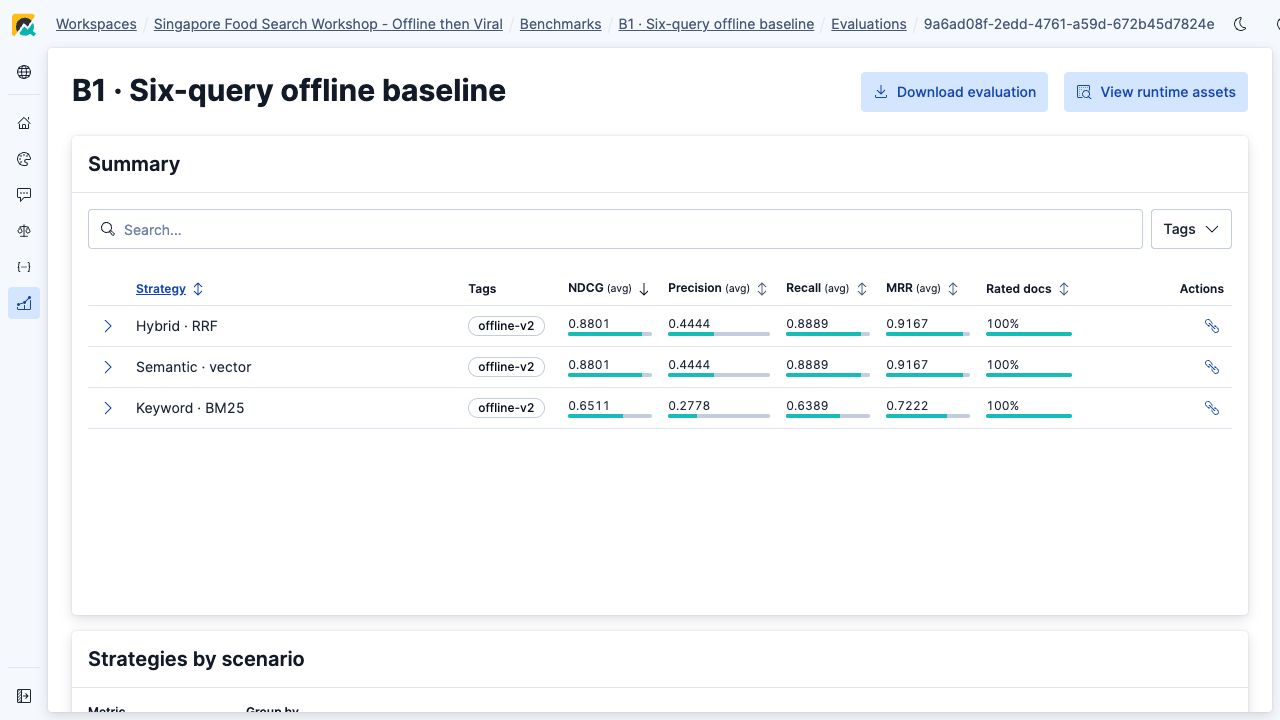
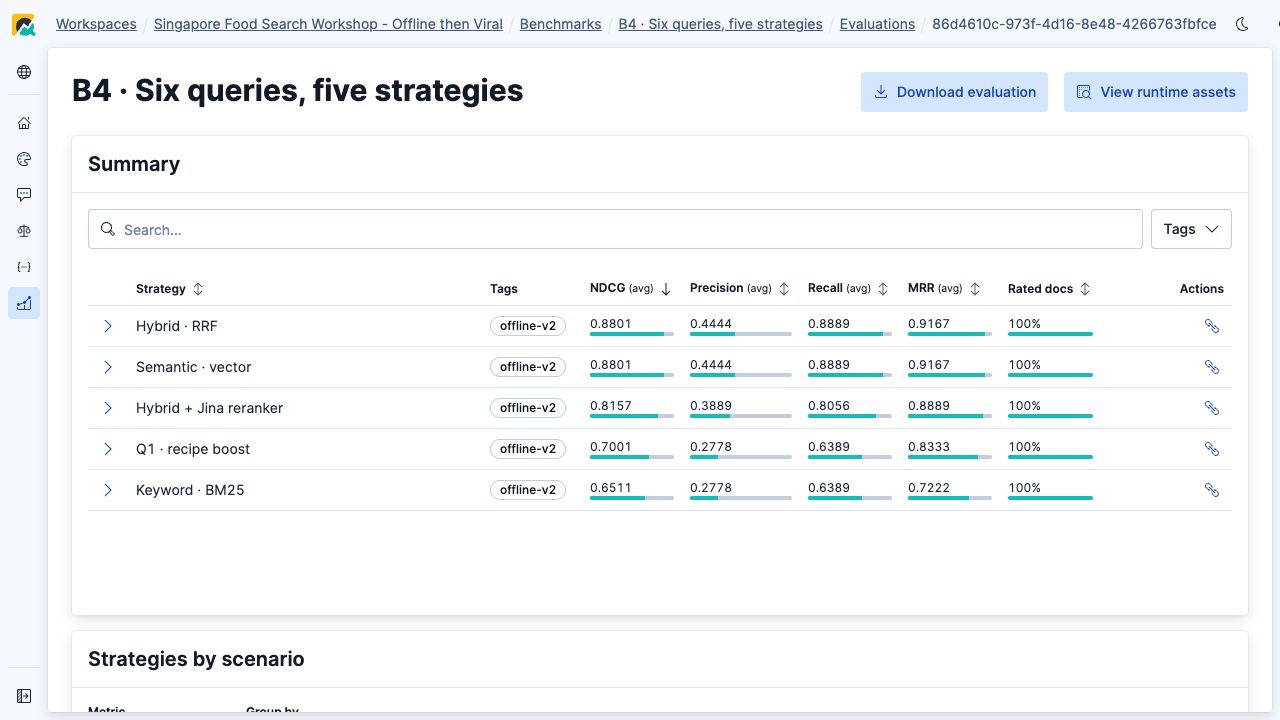
Compare five Studio strategies and show code through a dropdown

diff --git a/app.js b/app.js
@@ -21,7 +21,7 @@ let data, step=0, queryId='Q1', judgeQueryId='Q1', indexName='sg-food-vector-wor
 let abSnapshot=null;
 let viralActive=true;
 const abState={intro:{qid:'Q2',a:'keyword',b:'vector'},evaluate:{qid:'Q2',a:'keyword',b:'vector'},online:{qid:'Q2',a:'keyword',b:'hybrid'}};
-const studioState={qid:'Q1'};
+const studioState={qid:'Q1',strategy:'keyword'};
 const abModes={keyword:'Keyword · BM25',vector:'Semantic · vector',hybrid:'Hybrid · RRF'};
 
 function saveState(){try{localStorage.setItem(STORE,JSON.stringify({step,queryId,indexName,sectionByStep,viralActive}))}catch{}}
@@ -325,10 +325,15 @@ function labelEditor(){
 }
 function studioVisualContent(){
   const flow=`<p class="studio-flow-intro">Before launch, judge the original six queries (Q1–Q6) and compare search strategies on that same set. New tasks discovered through online searches come later.</p><div class="flow studio-flow"><div><b>1 · Scenarios</b><small><strong>What will someone search for?</strong><br>Each test case holds a query and user task.</small></div><div><b>2 · Judgments</b><small><strong>Which documents answer it?</strong><br>Grade query–document pairs from 0 to 3. <b>LLM-as-a-judge</b> can draft grades; SMEs review them.</small></div><div><b>3 · Strategies</b><small><strong>How will we search?</strong><br>Save keyword, vector, hybrid and candidate queries.</small></div><div><b>4 · Benchmark</b><small><strong>Which strategy works better?</strong><br>Run them at the same K and inspect individual failures.</small></div></div>`;
-  return panel('Judge the six scenarios before launch',`${flow}<section class="studio-phase"><h3><span class="stage-number">1</span> Set up scenarios and judgments</h3><div class="studio-config"><span><b>Index pattern</b><code>${esc(indexName)}</code></span><span><b>Rating scale</b>0–3</span><span><b>Search parameter</b><code>text</code></span></div>${studioScenarioWorkbench()}<div class="improve-check"><b>LLM-as-a-judge · draft relevance judgments here</b><span>Give the LLM the query, user task, document text and 0–3 rubric. Ask for a grade and a short reason. Expert evaluators check a sample against human grades; SMEs resolve ambiguous or high-impact cases. Freeze the reviewed grades before comparing strategies. This is an optional judging workflow; this page displays fixed workshop judgments and does not call an LLM.</span></div><p><b>Who reviews this?</b> The SME approves the task and grading rubric; expert evaluators enter the query–document grades and flag disagreements. The SME adjudicates disputed or high-impact examples. The cards here show the reviewed workshop judgments. A zero on an unrated Studio card may only be its slider default, so confirm each grade was saved.</p></section><section class="studio-phase"><h3><span class="stage-number">2</span> Save strategies and benchmark</h3><p>Use <code>{{ text }}</code> as the scenario parameter. Run the same six scenarios with the same K for every strategy. Compare the actual results, then MRR and NDCG for order, Recall for missed answers and Precision for noise. Studio counts grade 1 as relevant in its binary metrics; this page uses grade 2 or higher, so its Precision and Recall can differ.</p><div class="studio-grid"><section class="studio-card"><h4>Keyword baseline</h4>${code('Keyword strategy',studioStrategy('keyword'),'Copy strategy body')}</section><section class="studio-card"><h4>Semantic vector</h4>${code('Vector strategy',studioStrategy('vector'),'Copy strategy body')}</section><section class="studio-card"><h4>Hybrid RRF</h4>${code('Hybrid strategy',studioStrategy('hybrid'),'Copy strategy body')}</section><section class="studio-card"><h4>Q1 recipe boost</h4>${code('Recipe-boost strategy',studioRecipeBoostStrategy(),'Copy strategy body')}</section><section class="studio-card"><h4>Hybrid + Jina reranker</h4>${code('Jina rerank strategy',studioRerankStrategy(),'Copy strategy body')}</section></div><p>Run the six-query baseline and compare the Q1 boost on those same questions. Add vegetarian chicken rice as a reviewed scenario to test Hybrid against Jina; then check the reranker for regressions on the original six. Review failures and unrated results.</p><p>Keep the six-query benchmark as your offline baseline. Add the Q1 recipe-boost candidate as another strategy and compare it on recipe tasks; it must not silently replace guide or menu searches. Later online traffic supplies new cases for the next version of this test set.</p></section>${studioBenchmarkEvidence()}`,'accent');
+  return panel('Judge the six scenarios before launch',`${flow}<section class="studio-phase"><h3><span class="stage-number">1</span> Set up scenarios and judgments</h3><div class="studio-config"><span><b>Index pattern</b><code>${esc(indexName)}</code></span><span><b>Rating scale</b>0–3</span><span><b>Search parameter</b><code>text</code></span></div>${studioScenarioWorkbench()}<div class="improve-check"><b>LLM-as-a-judge · draft relevance judgments here</b><span>Give the LLM the query, user task, document text and 0–3 rubric. Ask for a grade and a short reason. Expert evaluators check a sample against human grades; SMEs resolve ambiguous or high-impact cases. Freeze the reviewed grades before comparing strategies. This is an optional judging workflow; this page displays fixed workshop judgments and does not call an LLM.</span></div><p><b>Who reviews this?</b> The SME approves the task and grading rubric; expert evaluators enter the query–document grades and flag disagreements. The SME adjudicates disputed or high-impact examples. The cards here show the reviewed workshop judgments. A zero on an unrated Studio card may only be its slider default, so confirm each grade was saved.</p></section><section class="studio-phase"><h3><span class="stage-number">2</span> Save strategies and benchmark</h3><p>Use <code>{{ text }}</code> as the scenario parameter. Run the same six scenarios with the same K for every strategy. Compare the actual results, then MRR and NDCG for order, Recall for missed answers and Precision for noise. Studio counts grade 1 as relevant in its binary metrics; this page uses grade 2 or higher, so its Precision and Recall can differ.</p>${studioStrategyPicker()}<p>Run the six-query baseline and compare the Q1 boost on those same questions. Add vegetarian chicken rice as a reviewed scenario to test Hybrid against Jina; then check the reranker for regressions on the original six. Review failures and unrated results.</p><p>Keep the six-query benchmark as your offline baseline. Add the Q1 recipe-boost candidate as another strategy and compare it on recipe tasks; it must not silently replace guide or menu searches. Later online traffic supplies new cases for the next version of this test set.</p></section>${studioBenchmarkEvidence()}`,'accent');
+}
+function studioStrategyPicker(){
+  const choices=[['keyword','Keyword · BM25',()=>studioStrategy('keyword')],['vector','Semantic · vector',()=>studioStrategy('vector')],['hybrid','Hybrid · RRF',()=>studioStrategy('hybrid')],['boost','Q1 · recipe boost',studioRecipeBoostStrategy],['jina','Hybrid + Jina reranker',studioRerankStrategy]];
+  const selected=choices.find(([id])=>id===studioState.strategy)??choices[0];
+  return `<div class="ab-toolbar"><label>Search strategy<select id="studio-strategy">${choices.map(([id,title])=>`<option value="${id}" ${id===selected[0]?'selected':''}>${esc(title)}</option>`).join('')}</select></label><span>Five candidates · compare all on Q1–Q6</span></div><section class="studio-card">${code(selected[1],selected[2](),'Copy strategy body')}</section>`;
 }
 function studioBenchmarkEvidence(){
-  return `<section class="studio-phase"><h3><span class="stage-number">3</span> Choose a strategy from the benchmark</h3><div class="improve-check"><b>Selected: Hybrid RRF · joint-highest NDCG</b><span>In this completed six-query Studio run, <b>Hybrid and Semantic tie at 0.8801 NDCG@3</b>; Keyword scores 0.6511. We choose Hybrid for the workshop. This result does not prove it beats Semantic, or that every query ranks its best answer first.</span></div><figure class="studio-benchmark-evidence"><div class="studio-benchmark-image"><img src="./studio-benchmark.png" alt="Actual Studio six-query benchmark: Hybrid and Semantic both have NDCG 0.8801 and MRR 0.9167; Keyword has NDCG 0.6511 and MRR 0.7222." loading="lazy"><span class="studio-benchmark-highlight" aria-hidden="true"></span></div><figcaption>Actual Relevance Studio capture · B1: Six-query offline baseline · evaluation 9a6ad08f · captured 29 September 2026. Outline marks the Hybrid row.</figcaption></figure><p><b>Read the scope:</b> this benchmark covers Q1–Q6. It does not tell us how Hybrid will handle new tasks that users search for after launch.</p><p><b>Grade ≠ rank:</b> Studio’s judgments evaluate a strategy; they do not automatically boost documents. Inspect each query as well as the average.</p></section>`;
+  return `<section class="studio-phase"><h3><span class="stage-number">3</span> Choose a strategy from the benchmark</h3><div class="improve-check"><b>Selected: Hybrid RRF · joint-highest NDCG</b><span>In this completed five-strategy, six-query Studio run, <b>Hybrid and Semantic tie at 0.8801 NDCG@3</b>; Jina scores 0.8157, recipe boost 0.7001 and Keyword 0.6511. All returned documents are rated. We choose Hybrid for the workshop. This result does not prove it beats Semantic, or that every query ranks its best answer first.</span></div><figure class="studio-benchmark-evidence"><div class="studio-benchmark-image"><img src="./studio-benchmark.png?v=five-strategies" alt="Actual Studio five-strategy benchmark on six queries: NDCG is 0.8801 for Hybrid and Semantic, 0.8157 for Jina, 0.7001 for recipe boost and 0.6511 for Keyword. All rows show 100% rated documents." loading="lazy"><span class="studio-benchmark-highlight" aria-hidden="true"></span></div><figcaption>Actual Relevance Studio capture · B4: Six queries, five strategies · evaluation 86d4610c · captured 29 September 2026. Outline marks the Hybrid row.</figcaption></figure><p><b>Read the scope:</b> this benchmark covers Q1–Q6. It does not tell us how Hybrid will handle new tasks that users search for after launch.</p><p><b>Grade ≠ rank:</b> Studio’s judgments evaluate a strategy; they do not automatically boost documents. Inspect each query as well as the average.</p></section>`;
 }
 const studioTerms={Q1:['chicken rice','Hainanese','white chicken','poach'],Q2:['brinjal','eggplant','aubergine','sambal'],Q3:['mee goreng','noodles','stir-fry'],Q4:['RC-123','rice cooker','RC-999'],Q5:['satay sauce','peanut-free','peanut'],Q6:['Rasa Corner','lunch menu','current','archived']};
 function studioScenarioWorkbench(){
@@ -478,6 +483,7 @@ function wire(){
     button.onclick=jump;
     button.onkeydown=event=>{if(event.key==='Enter'||event.key===' '){event.preventDefault();jump();}};
   });
+  const strategyPicker=$('#studio-strategy');if(strategyPicker)strategyPicker.onchange=()=>{studioState.strategy=strategyPicker.value;render();$('#studio-strategy').focus({preventScroll:true})};
   if($('#viral-results'))renderViralStory();
   const viralToggle=$('#improve-viral-toggle');if(viralToggle)viralToggle.onchange=()=>{viralActive=viralToggle.checked;render();$('#improve-viral-toggle').focus({preventScroll:true})};
   document.querySelectorAll('[data-copy]').forEach(button=>button.onclick=async()=>{try{await navigator.clipboard.writeText(snippets[button.dataset.copy]);status(button.dataset.copyTarget==='studio'?'Strategy body copied. Paste it into a Relevance Studio strategy.':'Console request copied. Paste it into your project’s Dev Tools.')}catch{status('Clipboard access failed. Select and copy the code block manually.')}});

diff --git a/README.md b/README.md
@@ -6,7 +6,7 @@ A self-contained, Singapore food-themed workshop on keyword, vector, and hybrid 
 
 ## Workshop preview
 
-Start with six judged queries in Relevance Studio and compare keyword, vector and Hybrid RRF. Hybrid and Semantic tie for the highest NDCG in the captured six-query benchmark.
+Start with six judged queries in Relevance Studio and compare Keyword, Semantic, Hybrid RRF, recipe boost and Hybrid + Jina reranker. Hybrid and Semantic tie for the highest NDCG in the captured six-query benchmark.
 
 ### Discover a new online search
 
